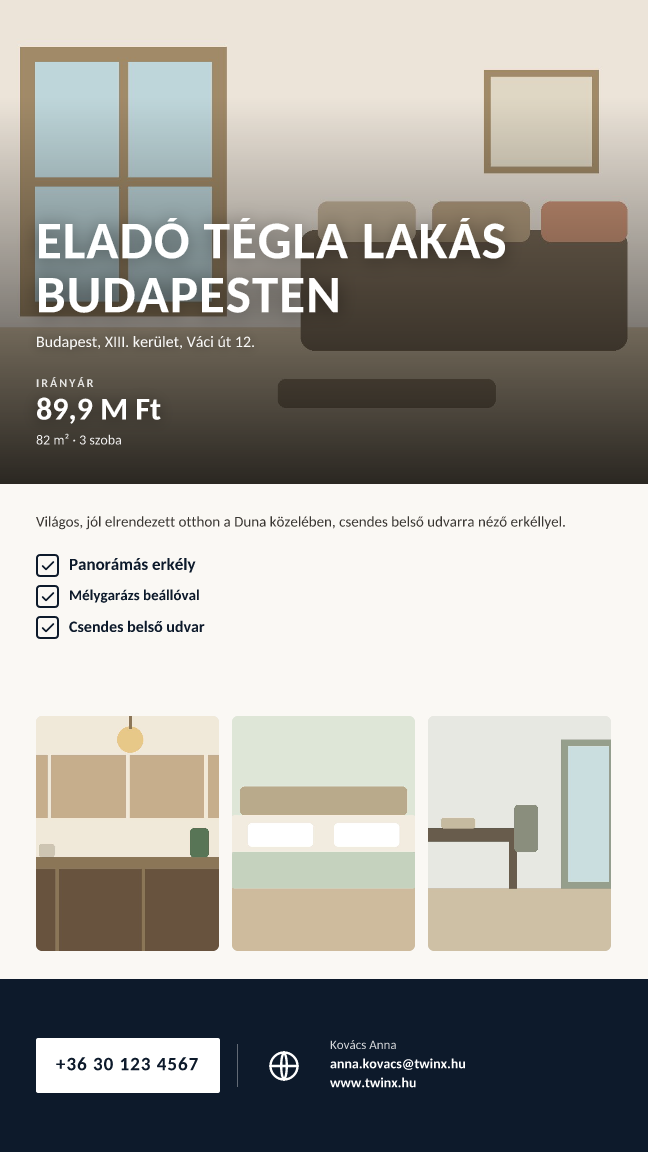
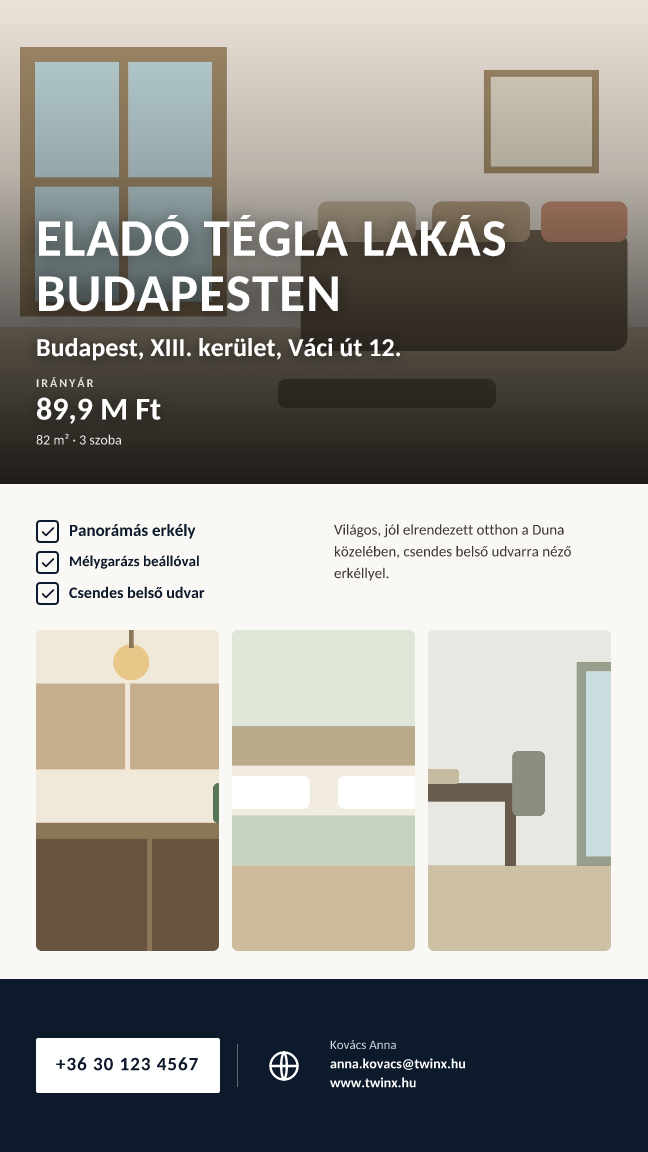
Magazin 9:16: leírás a pipás pontok mellé, szimmetrikus kétoszlopos sáv, nagyobb képek

diff --git a/src/lib/flyer-satori-openhouse.tsx b/src/lib/flyer-satori-openhouse.tsx
@@ -38,29 +38,64 @@ export function buildOpenHouseElement(o: RenderOpts, family: string): React.Reac
   // 1) FŐKÉP-SÁV
   // ===========================================================================
   const heroImg = heroFill(hero, W, heroH, o.heroPos?.x ?? 50, o.heroPos?.y ?? 50, o.heroDim?.w ?? 0, o.heroDim?.h ?? 0);
+  // A nagy főcím a fotó világosabb részére is átnyúlhat, ezért a sötétítés a
+  // TELJES fotósávra kiterjed — alul erős, fölfelé fokozatosan elfogy.
   const heroScrim = box({
-    position: "absolute", left: 0, bottom: 0, width: W, height: Math.round(heroH * 0.8),
-    backgroundImage: "linear-gradient(0deg, rgba(0,0,0,0.80) 0%, rgba(0,0,0,0.42) 46%, rgba(0,0,0,0) 100%)",
+    position: "absolute", left: 0, bottom: 0, width: W, height: heroH,
+    backgroundImage:
+      "linear-gradient(0deg, rgba(0,0,0,0.86) 0%, rgba(0,0,0,0.58) 34%, rgba(0,0,0,0.22) 64%, rgba(0,0,0,0) 100%)",
   });
 
-  const title = truncate((o.text.title || "Eladó ingatlan").toUpperCase(), 40);
+  // Hosszabb cím is TELJESEN kifér: a méret igazodik hozzá, nem vágjuk le.
+  const title = truncate((o.text.title || "Eladó ingatlan").toUpperCase(), 54);
   const subtitle = truncate(o.text.subtitle, 64);
-  const titleK = g.story ? 1.06 : g.land ? 0.9 : 1;
-  // A cím oszlopa fix szélességű — a betűméret ehhez igazodik, hogy a hosszú
-  // szavak (településnevek) ne lógjanak át a jobb oldali ár-blokkra.
-  const titleColW = g.story ? W - 2 * P : Math.round((W - 2 * P) * 0.58);
-  // Max 2 sor — a hero-blokk így nem nő túl nagyra a fotón.
-  const titleFs = fitHeadline(title, titleColW, 86 * u * titleK, 26 * u, 2, 0.75);
+  const titleK = g.story ? 1.06 : g.land ? 0.95 : 1.05;
+  // A cím a magazin-sablon FŐSZEREPLŐJE: széles oszlopot és nagy alapméretet kap.
+  // A betűméret két korlát közül a szigorúbbat veszi (leghosszabb szó szélessége,
+  // illetve a sorszám), a sorszámot pedig a hero magassága szabja meg — így a cím
+  // a lehető legnagyobb, de sem oldalra, sem fölfelé nem lóg ki.
+  const titleColW = g.story ? W - 2 * P : Math.round((W - 2 * P) * 0.62);
+  // A LAKÁS CÍME kiemelt: telefonon ez a legfontosabb. SAJÁT, TELJES SZÉLESSÉGŰ
+  // sorba kerül, és MINDIG EGY SORBAN marad (nowrap) — a betűméret úgy áll be,
+  // hogy a teljes cím kiférjen a vászon szélességébe.
+  const innerW = W - 2 * P;
+  const subFs = subtitle
+    ? Math.max(
+        Math.round(20 * u),
+        Math.min(
+          Math.round((g.story ? 52 : 46) * u),
+          Math.floor((innerW * 0.97) / (subtitle.length * 0.58))
+        )
+      )
+    : 0;
+  const subH = subtitle ? Math.round(subFs * 1.3) + Math.round(14 * u) : 0;
+  const titleBudget = Math.round(heroH * (g.story ? 0.46 : 0.62)) - subH;
+  let titleFs = Math.round(26 * u);
+  for (const maxLines of [3, 2]) {
+    const fs = fitHeadline(title, titleColW, 100 * u * titleK, 26 * u, maxLines, 0.75);
+    const perLine = Math.max(1, Math.floor((titleColW * 0.97) / (fs * 0.75)));
+    const lines = Math.max(1, Math.ceil(title.length / perLine));
+    titleFs = fs;
+    if (lines * Math.round(fs * 1.08) <= titleBudget) break;
+  }
 
   const titleCol = box(
     { flexDirection: "column", width: titleColW, flexShrink: 0, overflow: "hidden" },
-    [
-      box({ fontSize: titleFs, fontWeight: 700, color: "#ffffff", lineHeight: 1.02, letterSpacing: Math.round(1 * u), lineClamp: 2, textShadow: "0 2px 18px rgba(0,0,0,0.5)" }, title),
-      subtitle
-        ? box({ fontSize: Math.round(26 * u), fontWeight: 400, color: "#ffffff", opacity: 0.95, marginTop: Math.round(12 * u), lineHeight: 1.25, lineClamp: 2, textShadow: "0 1px 10px rgba(0,0,0,0.5)" }, subtitle)
-        : null,
-    ].filter(Boolean)
+    box({ fontSize: titleFs, fontWeight: 700, color: "#ffffff", lineHeight: 1.04, letterSpacing: Math.round(1 * u), textShadow: "0 2px 18px rgba(0,0,0,0.55)" }, title)
   );
+
+  // A cím külön, teljes szélességű sor — sosem tördelődik.
+  const subRow = subtitle
+    ? box(
+        {
+          width: innerW, flexShrink: 0, marginTop: Math.round(14 * u),
+          fontSize: subFs, fontWeight: 700, color: "#ffffff",
+          lineHeight: 1.28, whiteSpace: "nowrap",
+          textShadow: "0 2px 12px rgba(0,0,0,0.6)",
+        },
+        subtitle
+      )
+    : null;
 
   // Kiemelt infó-blokk (a minta dátum-blokkjának helyén): ÁR + kulcsadat.
   const rawPrice = formatPrice(String(o.text.price ?? ""));
@@ -85,14 +120,27 @@ export function buildOpenHouseElement(o: RenderOpts, family: string): React.Reac
       )
     : null;
 
+  // Elrendezés: állóban egymás alatt (cím → lakás címe → ár), fekvőn/négyzeten
+  // a cím és az ár egy sorban, ALATTA a teljes szélességű lakás-cím.
+  const heroTop = g.story
+    ? box({ flexDirection: "column", width: innerW }, [titleCol, subRow, infoCol].filter(Boolean))
+    : box(
+        { flexDirection: "column", width: innerW },
+        [
+          box(
+            { width: innerW, alignItems: "flex-end", justifyContent: "space-between", gap: Math.round(24 * u) },
+            [titleCol, infoCol].filter(Boolean)
+          ),
+          subRow,
+        ].filter(Boolean)
+      );
+
   const heroBottom = box(
     {
-      position: "absolute", left: P, bottom: Math.round(P * (g.story ? 1.0 : 0.72)), width: W - 2 * P,
-      flexDirection: g.story ? "column" : "row",
-      alignItems: g.story ? "flex-start" : "flex-end",
-      justifyContent: "space-between", gap: Math.round(24 * u),
+      position: "absolute", left: P, bottom: Math.round(P * (g.story ? 1.0 : 0.72)), width: innerW,
+      flexDirection: "column",
     },
-    [titleCol, infoCol].filter(Boolean)
+    heroTop
   );
 
   const heroBand = box(
@@ -105,7 +153,6 @@ export function buildOpenHouseElement(o: RenderOpts, family: string): React.Reac
   // ===========================================================================
   const midPadY = Math.round(P * 0.78);
   const innerH = midH - 2 * midPadY;
-  const innerW = W - 2 * P;
   const gap = Math.round(22 * u);
 
   // Előnyök: az AI kiemelései, ha vannak; különben a megadott adatokból.
@@ -122,7 +169,11 @@ export function buildOpenHouseElement(o: RenderOpts, family: string): React.Reac
       [o.text.subtitle, keyBits].filter(Boolean).join(" — ") ||
       "Vedd fel velünk a kapcsolatot a részletekért és az időpont-egyeztetésért.";
 
-  const textColW = g.story ? innerW : Math.round(innerW * (g.land ? 0.34 : 0.38));
+  // ÁLLÓBAN (9:16) a szövegsáv KÉT EGYENLŐ oszlop: balra a pipás előnyök,
+  // jobbra a leírás — így szimmetrikus, és nem marad üres folt a sáv alatt.
+  const colGap = Math.round(gap * 1.6);
+  const halfW = Math.floor((innerW - colGap) / 2);
+  const textColW = g.story ? halfW : Math.round(innerW * (g.land ? 0.34 : 0.38));
   const hiFs = Math.round((g.land ? 26 : 29) * u);
   const hiBox = Math.round((g.land ? 34 : 38) * u);
   const hiRow = (s: string, i: number) =>
@@ -141,25 +192,43 @@ export function buildOpenHouseElement(o: RenderOpts, family: string): React.Reac
   let hiCount = hiList.length;
   while (hiCount > 1 && innerH - hiTop - hiCount * hiRowH < minBlurbH) hiCount--;
   const hiShown = hiList.slice(0, hiCount);
-  const blurbBudget = Math.max(
-    minBlurbH,
-    innerH - (hiShown.length ? hiTop + hiShown.length * hiRowH : 0)
-  );
+  const hiBlockH = hiShown.length ? hiShown.length * hiRowH : 0;
+  // Állóban a két oszlop EGYMÁS MELLETT van, ezért a leírás a saját fél
+  // szélességén és a pipás blokk magasságában kap helyet.
+  const blurbBudget = g.story
+    ? Math.max(minBlurbH, hiBlockH)
+    : Math.max(minBlurbH, innerH - (hiShown.length ? hiTop + hiBlockH : 0));
   const par = fitParagraph(blurbRaw, textColW, blurbBudget, blurbFs, Math.round(16 * u));
-  const textH = par.lines * par.lineH + (hiShown.length ? hiTop + hiShown.length * hiRowH : 0);
 
-  const textCol = box(
-    { flexDirection: "column", width: textColW, flexShrink: 0 },
-    [
-      box(
-        { fontSize: par.fs, fontWeight: 400, color: "#3a3733", lineHeight: 1.45, flexShrink: 0 },
-        par.text
-      ),
-      hiShown.length
-        ? box({ flexDirection: "column", marginTop: hiTop, flexShrink: 0 }, hiShown.map(hiRow))
-        : null,
-    ].filter(Boolean)
+  const blurbBox = box(
+    {
+      width: textColW, flexShrink: 0, fontSize: par.fs, fontWeight: 400,
+      color: "#3a3733", lineHeight: 1.45,
+      // Állóban a két oszlop első sora egy vonalban induljon.
+      marginTop: g.story ? Math.round(14 * u) : 0,
+    },
+    par.text
   );
+  const hiBlock = hiShown.length
+    ? box({ flexDirection: "column", width: textColW, flexShrink: 0 }, hiShown.map(hiRow))
+    : null;
+
+  const textH = g.story
+    ? Math.max(hiBlockH, par.lines * par.lineH)
+    : par.lines * par.lineH + (hiShown.length ? hiTop + hiBlockH : 0);
+
+  const textCol = g.story
+    ? box(
+        { width: innerW, gap: colGap, alignItems: "flex-start", flexShrink: 0 },
+        [hiBlock, blurbBox].filter(Boolean)
+      )
+    : box(
+        { flexDirection: "column", width: textColW, flexShrink: 0 },
+        [
+          blurbBox,
+          hiBlock ? box({ flexDirection: "column", marginTop: hiTop, flexShrink: 0 }, hiShown.map(hiRow)) : null,
+        ].filter(Boolean)
+      );
 
   // Kollázs: a mintához hasonlóan nagy bal kép + két álló kép jobbra.
   const galW = g.story ? innerW : innerW - textColW - Math.round(gap * 1.6);
@@ -170,7 +239,7 @@ export function buildOpenHouseElement(o: RenderOpts, family: string): React.Reac
         Math.round(160 * u),
         Math.min(
           innerH - textH - Math.round(gap * 1.2),
-          Math.round((thumbs.length ? (innerW - (thumbs.length - 1) * gap) / thumbs.length : innerW) * 1.28)
+          Math.round((thumbs.length ? (innerW - (thumbs.length - 1) * gap) / thumbs.length : innerW) * 1.75)
         )
       )
     : innerH;

diff --git a/src/components/flyer/AdWizard.tsx b/src/components/flyer/AdWizard.tsx
@@ -709,30 +709,29 @@ export default function AdWizard({
                   </span>
                 </div>
               )}
-              {/* FŐKÉP — kiemelt, külön blokkban, hogy egyértelmű legyen */}
+              {/* FŐKÉP — kiemelt, de VÍZSZINTES kártya: a kép mellé kerül a magyarázat,
+                  így nem tolja le a képernyőről az alatta lévő három üres helyet. */}
               {images.length > 0 && (
-                <div className="rounded-2xl p-3"
+                <div className="flex items-center gap-3 rounded-2xl p-3"
                   style={{ border: "2px solid var(--twx-coral)", background: "var(--twx-coral-soft)" }}>
-                  <div className="mb-2 flex flex-wrap items-center justify-between gap-2">
-                    <span className="inline-flex items-center gap-2">
-                      <span className="rounded-md px-2 py-0.5 text-[11px] font-bold tracking-wide"
-                        style={{ background: "var(--twx-coral)", color: "#fff" }}>FŐKÉP</span>
-                      <span className="text-xs font-semibold" style={{ color: "#7a2e17" }}>
-                        Ez lesz a hirdetés nagy képe
-                      </span>
-                    </span>
+                  {/* eslint-disable-next-line @next/next/no-img-element */}
+                  <img src={images[0]} alt="Főkép" className="shrink-0 rounded-xl object-cover"
+                    style={{ width: "42%", maxWidth: 260, aspectRatio: "4 / 3", border: "1px solid rgba(0,0,0,0.08)" }} />
+                  <div className="min-w-0">
+                    <span className="inline-block rounded-md px-2 py-0.5 text-[11px] font-bold tracking-wide"
+                      style={{ background: "var(--twx-coral)", color: "#fff" }}>FŐKÉP</span>
+                    <p className="mt-1.5 text-sm font-semibold" style={{ color: "#7a2e17" }}>
+                      Ez lesz a hirdetés nagy képe
+                    </p>
+                    <p className="mt-1 text-[11px]" style={{ color: "#7a2e17" }}>
+                      Másik fotót szeretnél főképnek? A lenti kis képeknél kattints a <strong>Főkép</strong> gombra.
+                    </p>
                     <button type="button" onClick={() => removeImage(0)}
-                      className="rounded-lg px-2 py-1 text-xs font-medium"
+                      className="mt-2 rounded-lg px-2 py-1 text-xs font-medium"
                       style={{ background: "#fff", border: "1px solid var(--twx-line)" }}>
                       Eltávolítás
                     </button>
                   </div>
-                  {/* eslint-disable-next-line @next/next/no-img-element */}
-                  <img src={images[0]} alt="Főkép" className="w-full rounded-xl object-cover"
-                    style={{ aspectRatio: "16 / 9", border: "1px solid rgba(0,0,0,0.08)" }} />
-                  <p className="mt-2 text-[11px]" style={{ color: "#7a2e17" }}>
-                    Másik fotót szeretnél főképnek? A lenti kis képeknél kattints a <strong>Főkép</strong> gombra.
-                  </p>
                 </div>
               )}
 
